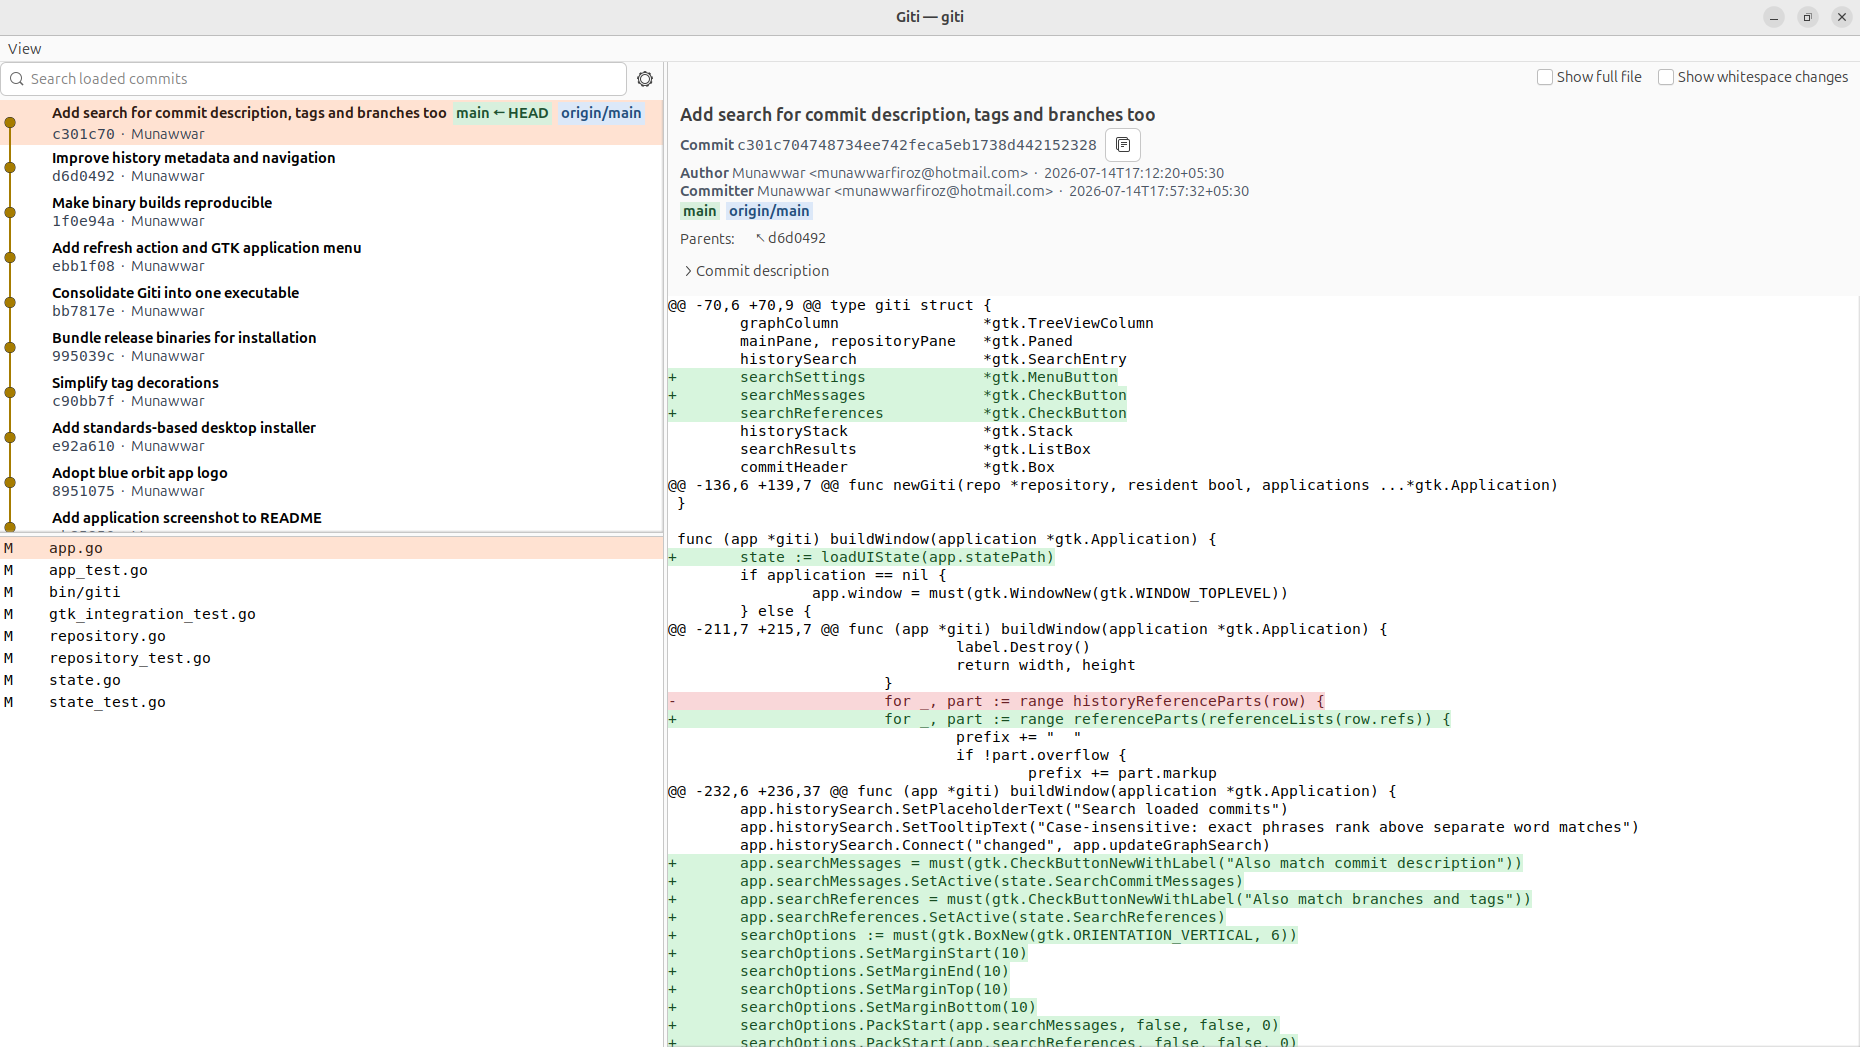
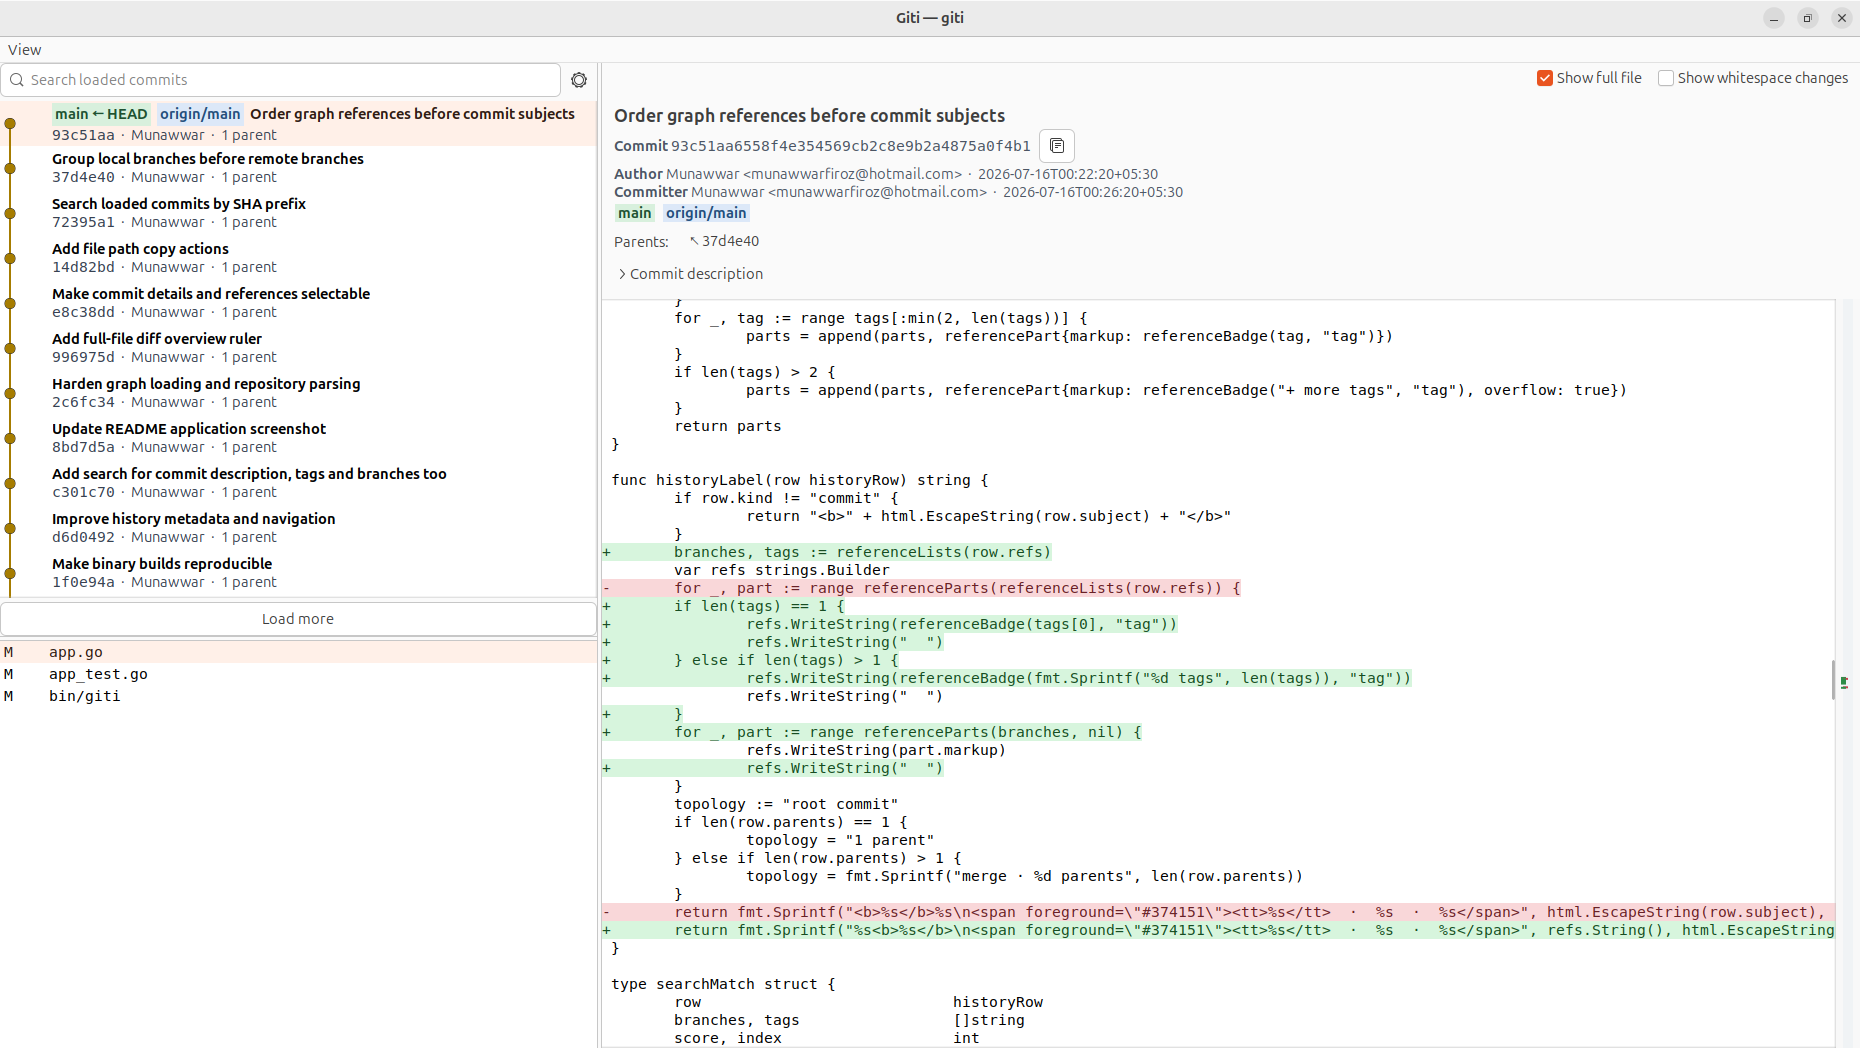
Update README application screenshot
Refresh the README image with the current graph ordering, branch references, and diff view.

diff --git a/README.md b/README.md
@@ -11,7 +11,7 @@ Keeping bloat low and starting up quickly were important design choices for repe
 `giti` coincidentally 
 means world/universe and life in Persian.
 
-![Giti showing a commit graph, search controls, and file diff](docs/giti-screenshot.png)
+![Giti graph viewer with branch and remote references, search controls, and file diff](docs/giti-screenshot.png)
 
 ```sh
 ./giti
